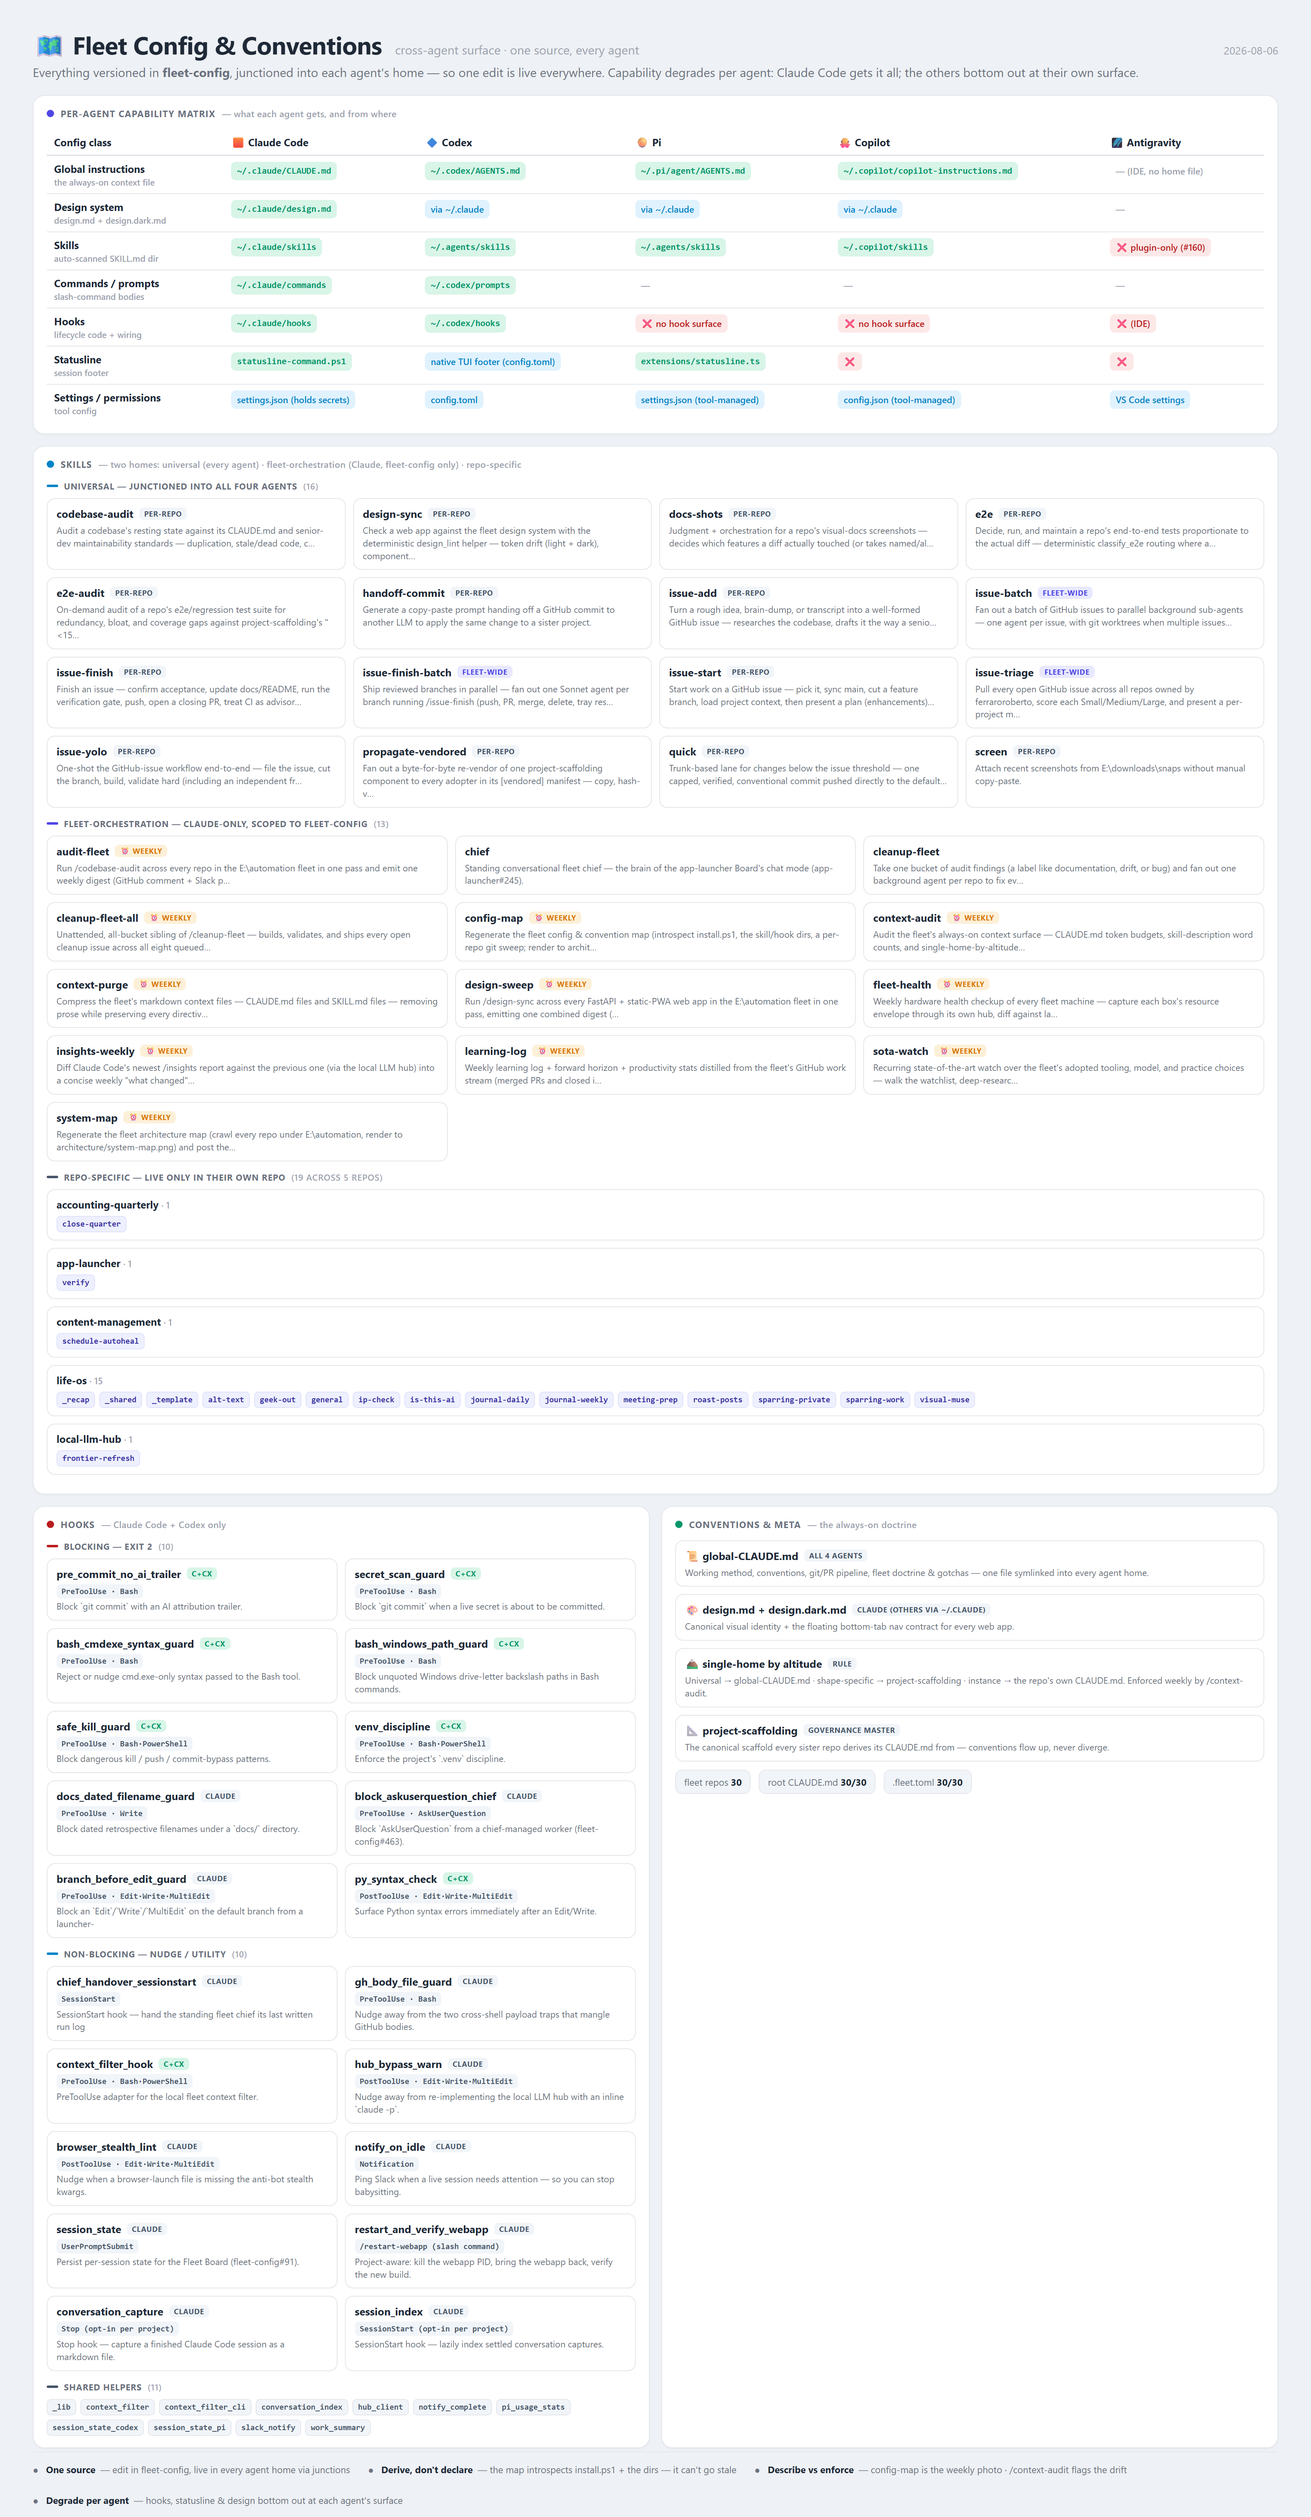
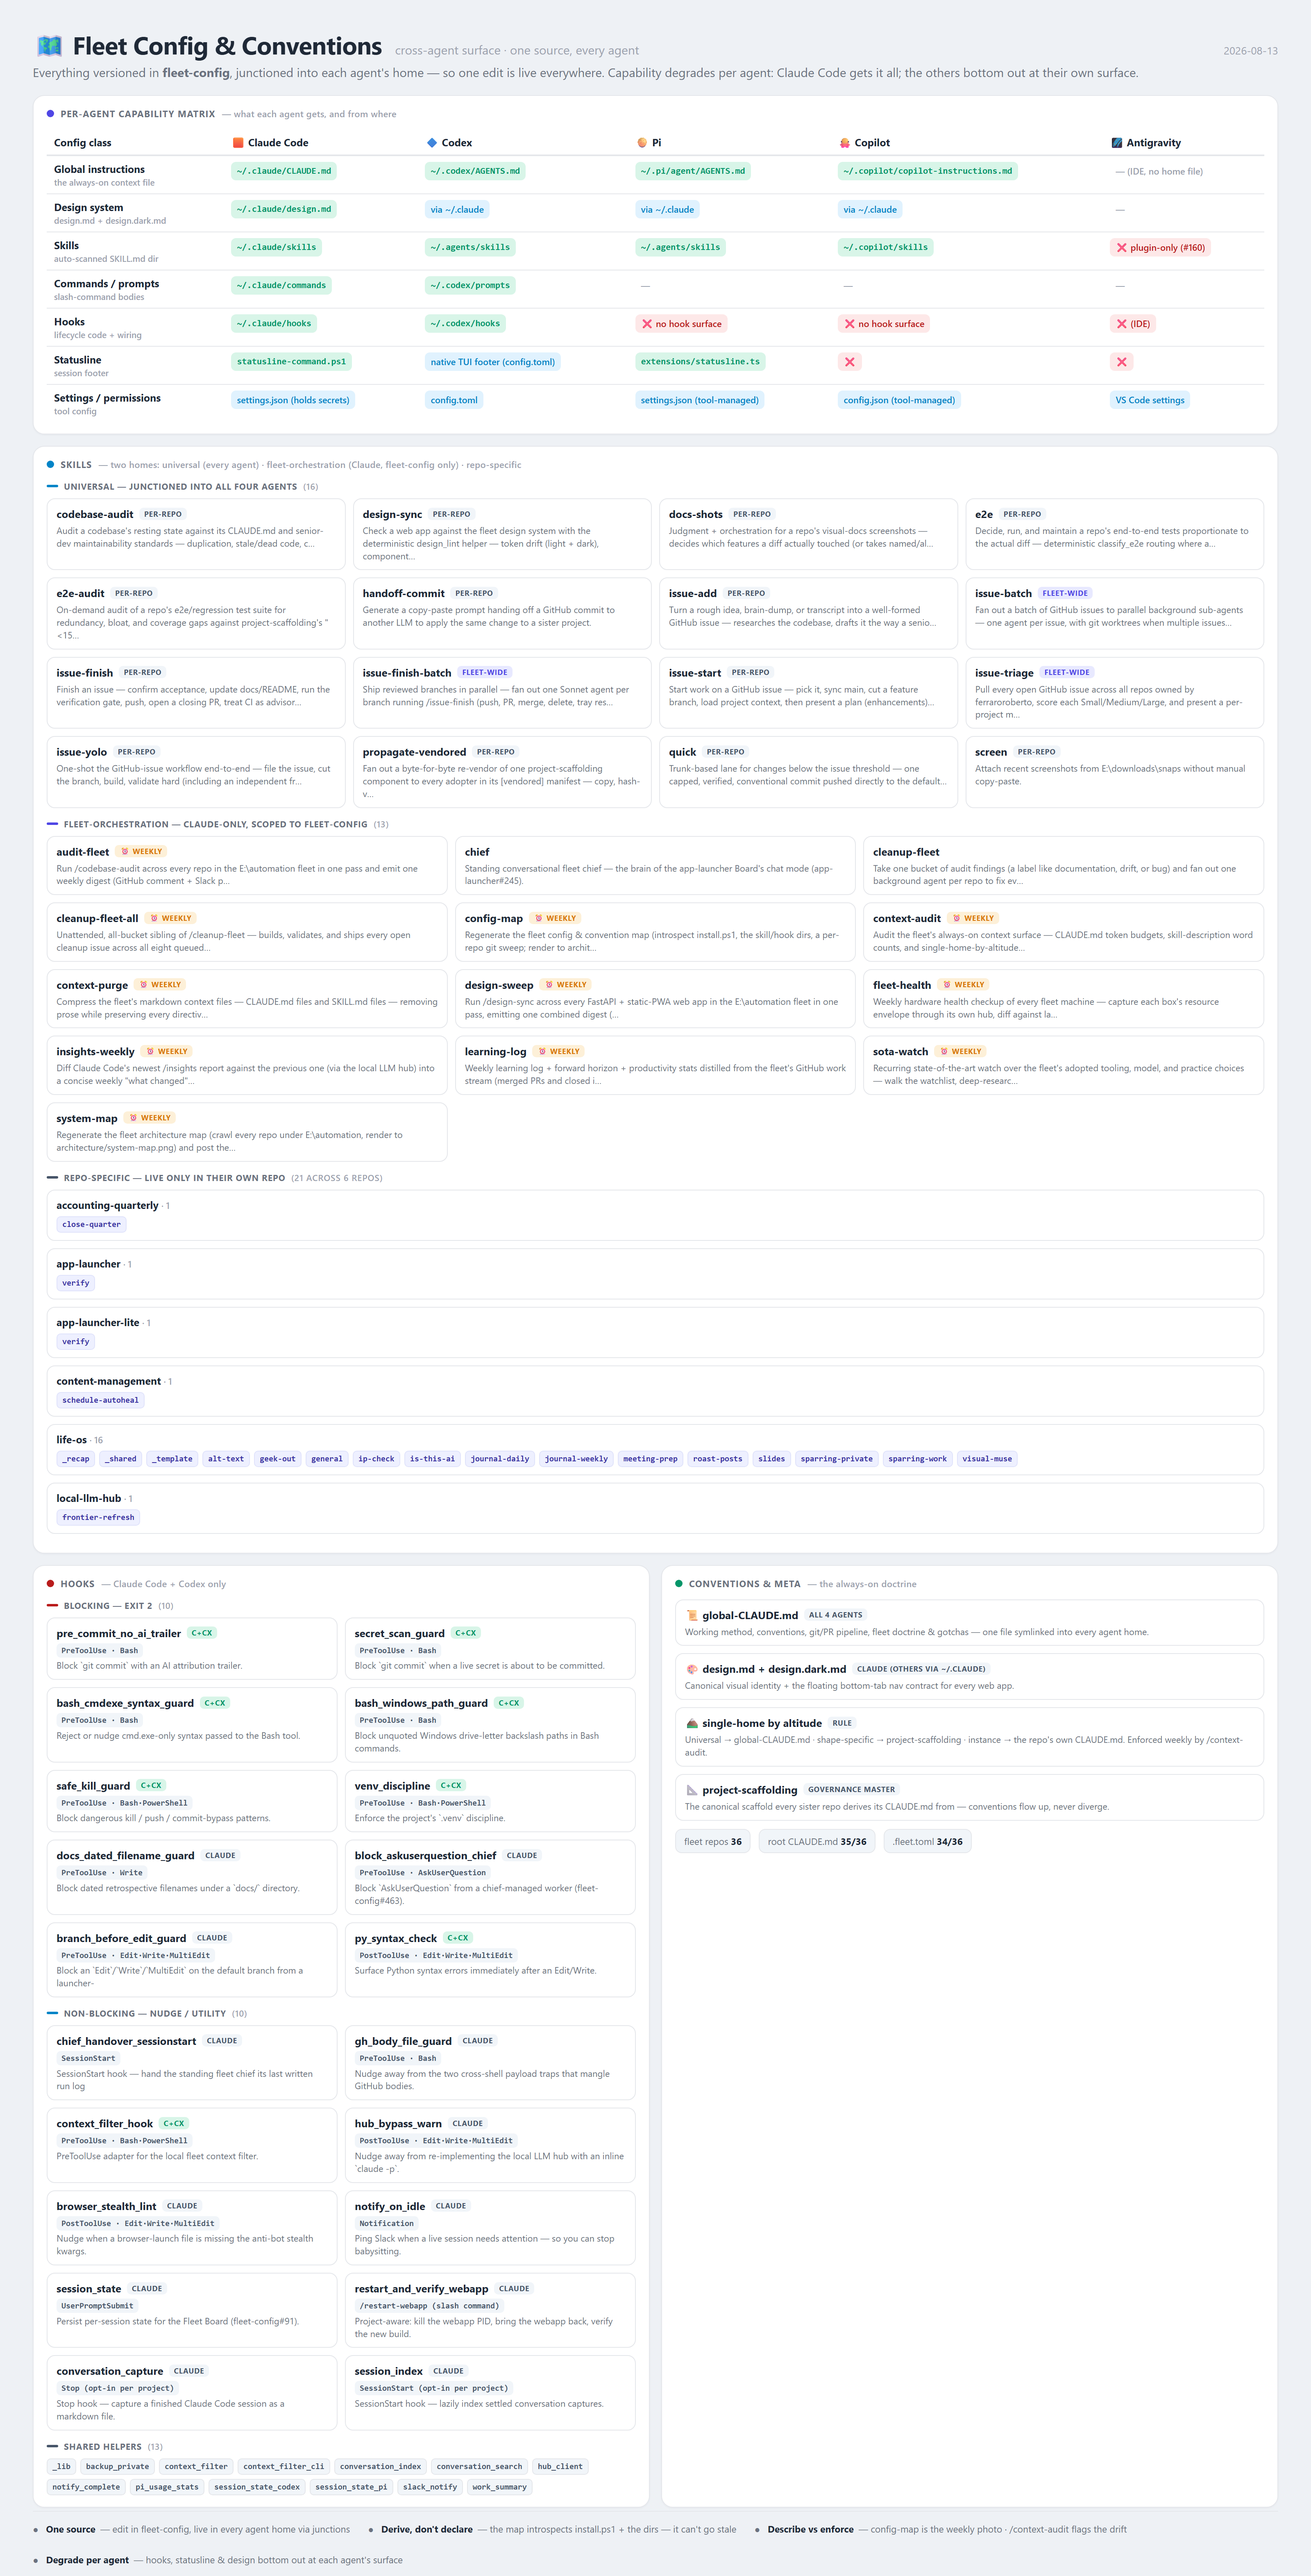
docs: refresh config map (2026-08-14)

diff --git a/architecture/config.data.js b/architecture/config.data.js
@@ -304,6 +304,7 @@ window.CONFIG = {
         "journal-weekly",
         "meeting-prep",
         "roast-posts",
+        "slides",
         "sparring-private",
         "sparring-work",
         "visual-muse"
@@ -464,6 +465,10 @@ window.CONFIG = {
       "ds": "Shared helpers for the fleet-config hooks."
     },
     {
+      "nm": "backup_private",
+      "ds": "Daily snapshot of every fleet repo's gitignored-but-precious residue."
+    },
+    {
       "nm": "context_filter",
       "ds": "Local command-output compression for the fleet hook layer."
     },
@@ -474,6 +479,10 @@ window.CONFIG = {
     {
       "nm": "conversation_index",
       "ds": "Tier-1 conversation index — a cheap, searchable layer over raw captures."
+    },
+    {
+      "nm": "conversation_search",
+      "ds": "Ranked full-text search over captured conversations (fleet-config#586)."
     },
     {
       "nm": "hub_client",
